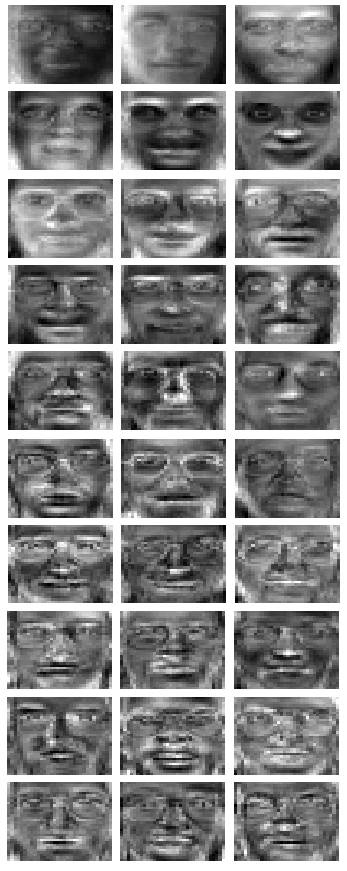
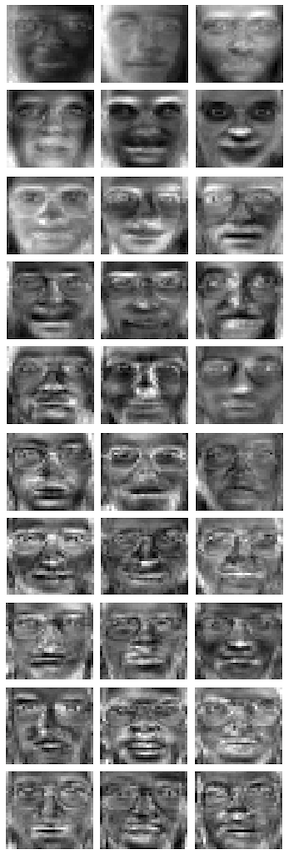
h

diff --git a/Face_recognition.m b/Face_recognition.m
@@ -31,7 +31,9 @@ end
 
 k = 70; % define how many eigenvecotrs will be used (PC)
 
-[mean_face, eigenvectors] = eigenfaces_train(train_faces, k, 'T'); 
+type = 'S';
+
+[mean_face, eigenvectors, ~] = eigenfaces_train(train_faces, k, type);
 
 % plot meanface
 
@@ -46,7 +48,7 @@ title('Mean face')
 k_eigenvectors=[];
     
  for j = 1:k
-    eigface  = eigenvectors(:, j);
+    eigface  = real(eigenvectors(:, j));
     k_eigenvectors{j} = reshape(eigface,im_size,im_size);
  end
 
@@ -73,7 +75,7 @@ accuracy = zeros(1, k);
 
 reconstruction_error = zeros(1, k);
 
-type = 'T';
+type = 'S';
 
 tic()
 
@@ -148,9 +150,11 @@ no_training_set = [3 5 7];
 
 m = 2; % number of a positon in a vector no_training_set
 
-[train_faces, ~, ~, ~, no_img_train, ~] = get_data(no_training_set(m));
+n = no_training_set(m);
 
-[mean_face, eigenvectors, eigenvalues, project_eigenfaces_train] = eigenfaces_train(train_faces, st.k_value_best{m}, type);
+[train_faces, ~, ~, ~, no_img_train, ~] = get_data(n);
+
+[mean_face, eigenvectors, project_eigenfaces_train] = eigenfaces_train(train_faces, st.k_value_best{m}, type);
 
 [reconstuction, reconst_no_mean] = reconstruct_face(eigenvectors, mean_face, project_eigenfaces_train);
 
@@ -174,7 +178,6 @@ end
 
 %% Plot reconstructed images
 
-n = no_training_set(m);
 
  figure(6);
 

diff --git a/eigenfaces_train.m b/eigenfaces_train.m
@@ -25,7 +25,7 @@ if type == 'S'
     
     covariance_matrix = (1/no_faces) * img_subst_mean * (img_subst_mean');
 
-    [eigenvectors, eigenvalues] = eig(covariance_matrix); 
+    [eigenvectors, ~] = eig(covariance_matrix); 
 
 % applying dimensionality redution on eigen decomposition (T instead of
 % covariance_matrix - sigma)
@@ -38,8 +38,8 @@ elseif type == 'T'
     
     eigenvectors = img_subst_mean * eigenvectorsT; 
     
-    % eigenvectors of img_subst_mean are left singular vectors of 
-    % img_subst_mean, hence dividing by sqrt(eigenvalues)
+    % eigenvectors of ((img_subst_mean') * (img_subst_mean)) are left singular
+    % vectors of img_subst_mean, hence dividing by sqrt(eigenvalues)
 
     eigenvectors = eigenvectors/(sqrt(eigenvalues));
     
